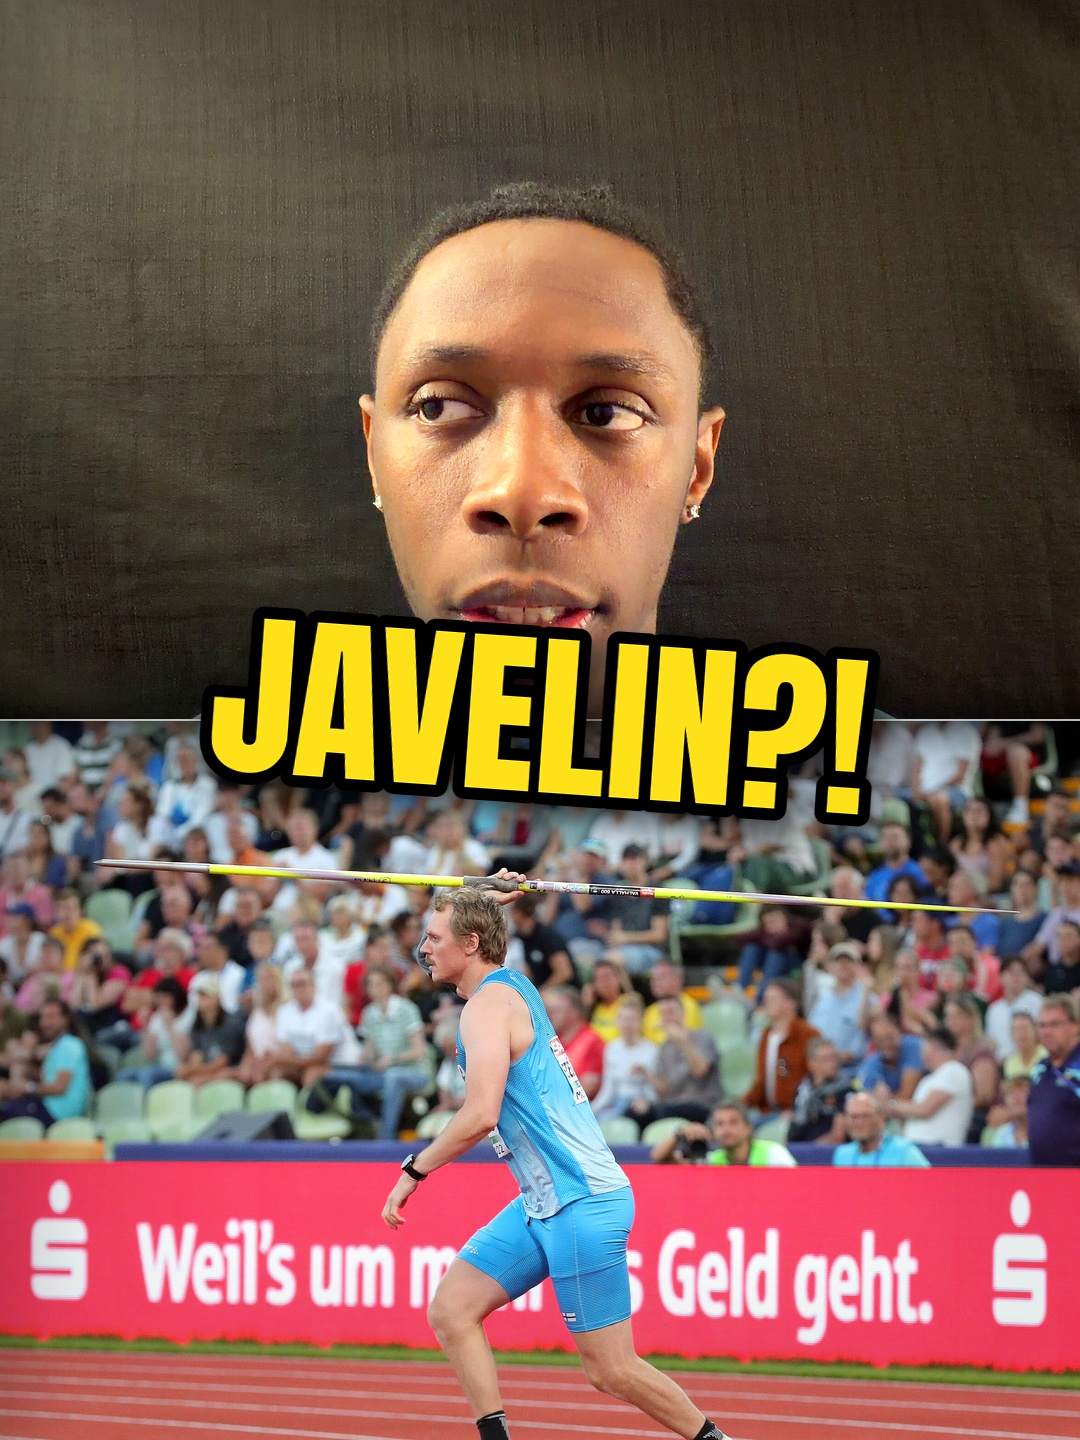
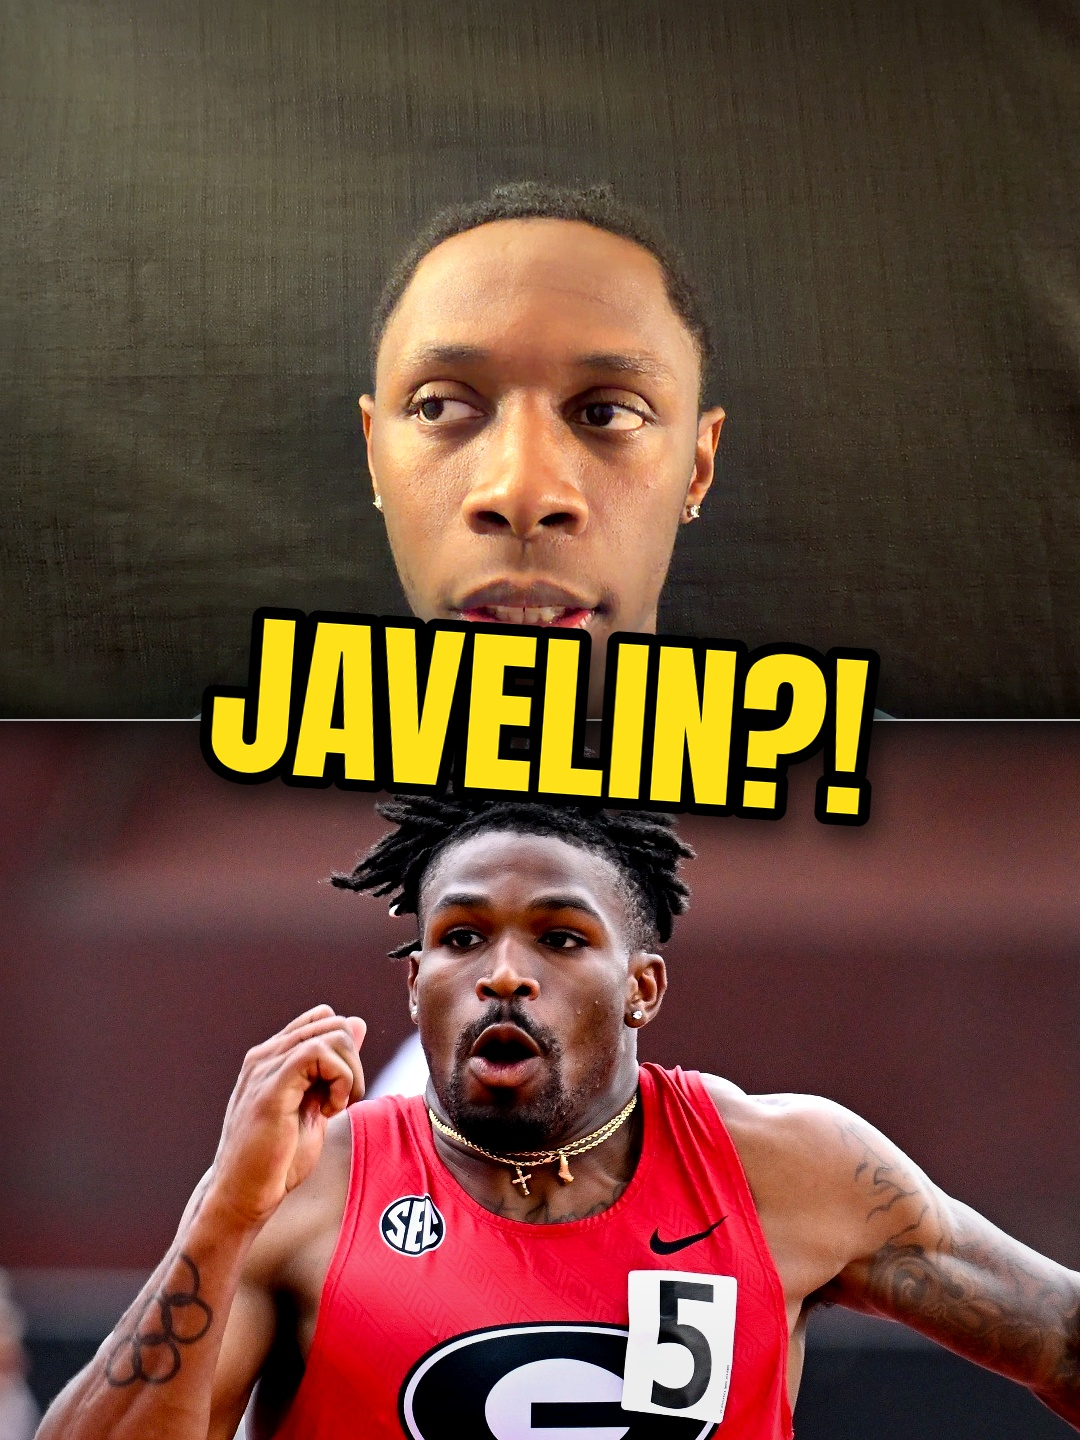
Elija Godwin v2: Georgia Athletics photos of Godwin throughout; thumbnail with Godwin
Claude-Session: https://claude.ai/code/session_01FEcSZyiLRg3t9cRq9AWGTK

diff --git a/projects/elija-godwin/thumbnail.py b/projects/elija-godwin/thumbnail.py
@@ -1,4 +1,4 @@
-# 3:4 TikTok cover: the owner's skeptical side-eye (4K frame) on top, the javelin below, one word on the seam.
+# 3:4 TikTok cover: the owner's skeptical side-eye (4K frame) on top, Godwin racing for Georgia below, one word on the seam.
 from PIL import Image, ImageDraw, ImageFont, ImageEnhance, ImageFilter
 S='/tmp/claude-0/-home-user-Erin-Brown-/353a917a-eedc-5fa9-9c7e-7d1a29f0affb/scratchpad'
 F='/home/user/Erin-Brown-/editor/assets/fonts/'
@@ -11,7 +11,7 @@ def crop_at(im,cx,cy,scale=1.0,w=W,h=HALF,bright=1.0):
     im=ImageEnhance.Contrast(im).enhance(1.1); im=ImageEnhance.Color(im).enhance(1.06); return ImageEnhance.Sharpness(im).enhance(1.1)
 face=Image.open(f'{S}/w5/thumb_face.png')            # 3840x2160 frame
 top=crop_at(face,1960,1020,0.42,bright=1.05)         # whole face above the word; downscaled 4K -> sharp
-bot=crop_at(Image.open(f'{S}/raw5/ph/jav_a.jpg'),1600,655,0.55)   # javelin shaft just below the word
+bot=crop_at(Image.open(f'{S}/raw5/uga/2023_4_22_23_Godwin_16x9-7.jpg'),920,385,1.0)   # Godwin racing for Georgia (UGA Athletics photo)
 c=Image.new('RGB',(W,H)); c.paste(top,(0,0)); c.paste(bot,(0,HALF))
 sh=Image.new('L',(W,140),0); d=ImageDraw.Draw(sh)
 for y in range(140): d.line([(0,y),(W,y)],fill=int(150*(1-abs(y-70)/70)**2.2))

diff --git a/projects/elija-godwin/NOTES.md b/projects/elija-godwin/NOTES.md
@@ -6,7 +6,7 @@ Alternates:
 - How Do You "Fall" on a Javelin? There Has to Be More to This Story
 - A Javelin Punctured His Lung. 3 Years Later He Was World Champ
 
-Thumbnail (3:4, 1080×1440): `exports/thumbnails/elija_godwin_thumb.jpg`. The owner's skeptical side-eye (a 4K frame from his take) is on top, a javelin throw below, and "JAVELIN?!" on the seam. Made by `thumbnail.py`.
+Thumbnail (3:4, 1080×1440): `exports/thumbnails/elija_godwin_thumb.jpg`. The owner's skeptical side-eye (a 4K frame from his take) is on top, a Godwin racing for Georgia below (2023), and "JAVELIN?!" on the seam. Made by `thumbnail.py`.
 
 ## Inputs
 - A 4K talking head only. The owner asked for clips, photos and news articles from online.
@@ -14,7 +14,7 @@ Thumbnail (3:4, 1080×1440): `exports/thumbnails/elija_godwin_thumb.jpg`. The ow
   - CBS Sports: "Georgia sprinter impales himself with javelin in horrific accident, undergoes surgery"
   - Associated Press: "University of Georgia sprinter impaled by javelin during practice"
   - Saturday Down South: "Report: Georgia sprinter punctures lung in freak accident involving a javelin"
-- **Photos:** Wikimedia Commons (see `CREDITS.md`). Commons has no clear solo photo of Godwin; he's on the 2022 Worlds mixed relay podium photo.
+- **Photos (v2, owner: "add more clips of him"):** Georgia Athletics photos of Godwin from 2019–2023 now fill almost every shot: his freshman season, Georgia's Bulldog Track, May 2019, SEC 2021, the 2022 NCAA meet, 2022 Worlds and 2023. Only two Commons javelin photos (the "what I thought" part) and the Sanford Stadium shot behind the headlines remain. See `CREDITS.md`.
 - **Race footage:** YouTube can't be downloaded here. If the owner wants the 2022 NCAA 400m final or the 2022 Worlds relays, he can send clips for the bottom half.
 - **New `javelin` motion graphic:** an angled javelin and a depth bracket labelled "5–6 INCHES · INTO HIS BACK" (the AP report gives the wound as 5–6 inches deep).
 

diff --git a/projects/elija-godwin/CREDITS.md b/projects/elija-godwin/CREDITS.md
@@ -1,6 +1,13 @@
 # Photo credits
 
-All photos are from Wikimedia Commons. CC BY / CC BY-SA / GFDL need attribution: put "Photos: Wikimedia Commons" in the TikTok caption. The thumbnail uses jav_a plus a frame from the owner's own video.
+## Georgia Athletics (georgiadogs.com): most of the Godwin photos
+Downloaded at the owner's request from Elija Godwin's UGA roster page (the original 2000 px files). They are **UGA Athletics' copyrighted press photos, not freely licensed**: used for commentary, with a caption credit ("Photos: Georgia Athletics, Wikimedia Commons"). A rights holder could still flag the video. Files in `raw5/uga/`:
+- 2019 Yellow Jacket Invite; May 2019 (crouched on the track); 2021 indoor sprints; 2021 4×400; 2021 SEC Championships (College Station); 2021 headshot (opening full-screen)
+- 2022 on Georgia's "Bulldog Track"; 2022 NCAA; 2022 World Championships (USA, mixed and 4×400)
+- 2023 indoor and outdoor, including with Matthew Boling
+
+## Wikimedia Commons
+CC BY / CC BY-SA / GFDL need attribution. The thumbnail uses a Georgia Athletics photo (2023, red kit) plus a frame from the owner's own video.
 
 - jav_a: "2022-08-21 European Championships 2022 – Men's Javelin Throw by Sandro Halank–004.jpg" by Sandro Halank, Wikimedia Commons (CC BY-SA 4.0), https://commons.wikimedia.org/wiki/File:2022-08-21_European_Championships_2022_%E2%80%93_Men%27s_Javelin_Throw_by_Sandro_Halank%E2%80%93004.jpg
 - jav_c: "Athletics at the 2024 Summer Paralympics – Women's javelin throw F13 final - 06.jpg" by Daieuxetdailleurs (CC BY 4.0), https://commons.wikimedia.org/wiki/File:Athletics_at_the_2024_Summer_Paralympics_%E2%80%93_Women%27s_javelin_throw_F13_final_-_06.jpg
